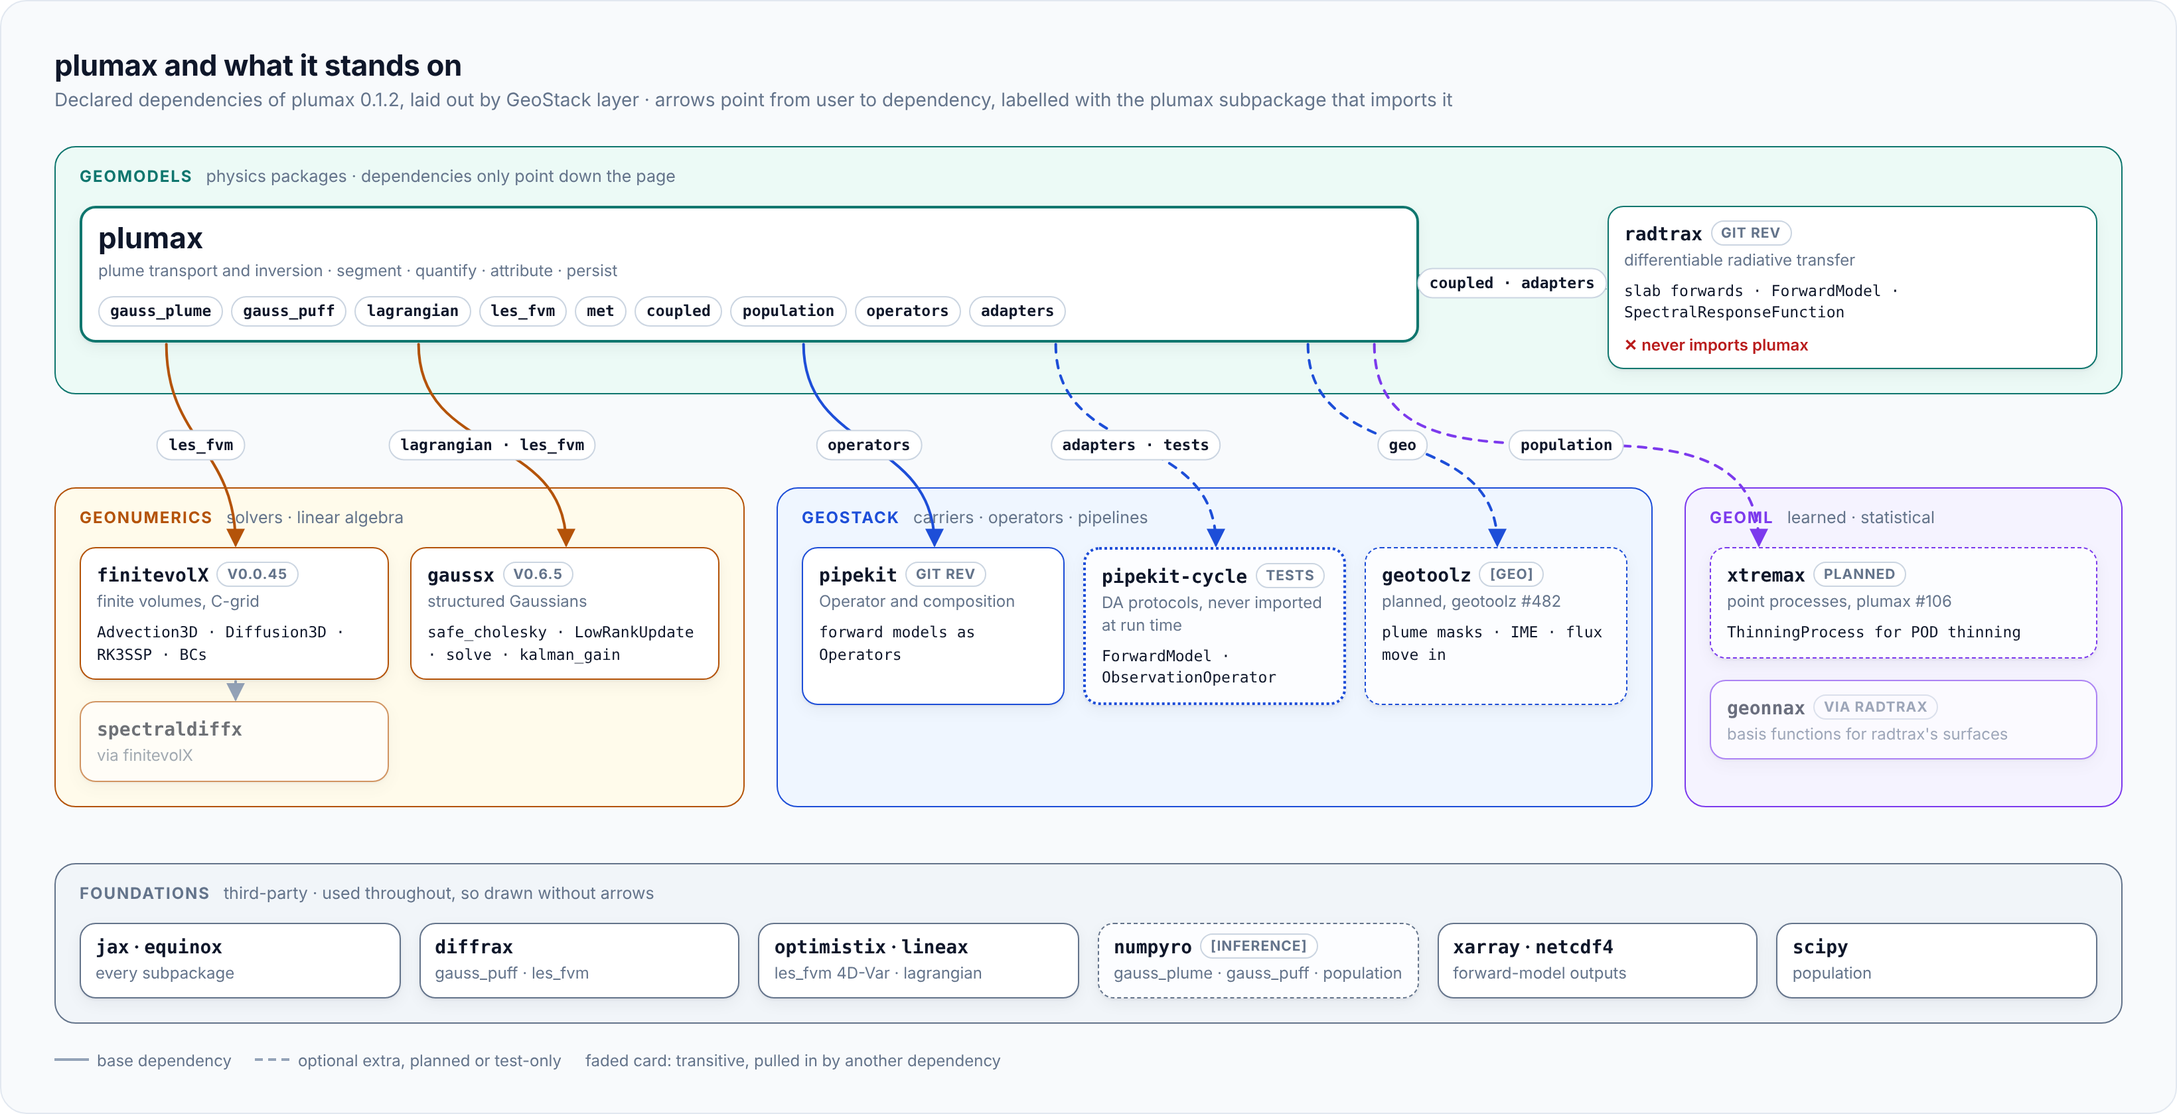
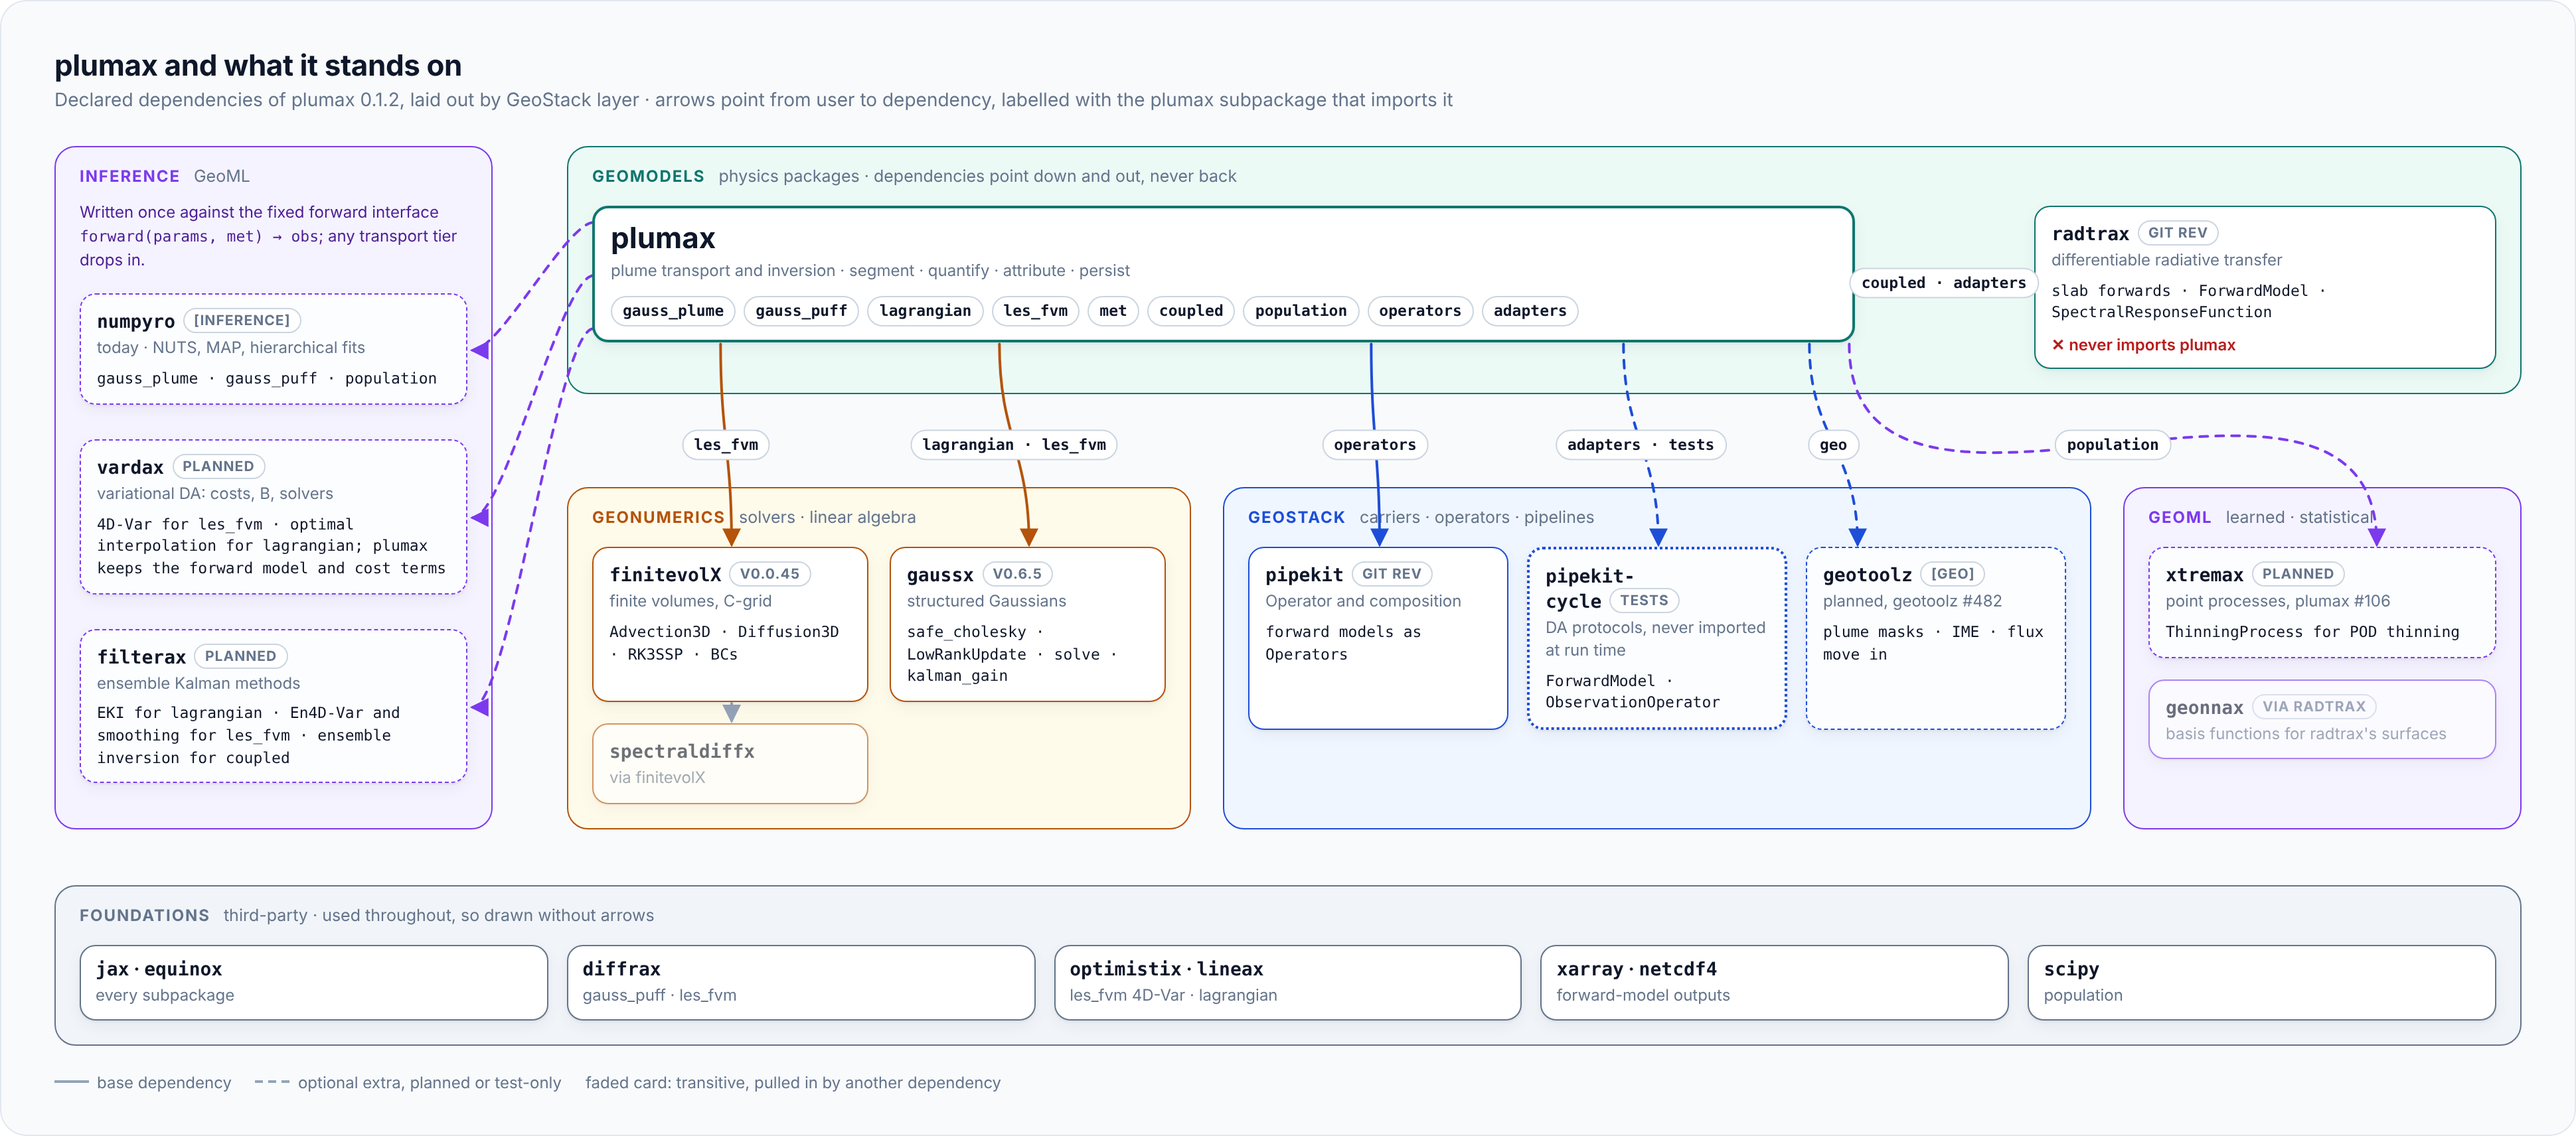
docs: add an inference layer to the dependency diagram
Group numpyro (today) with vardax and filterax (planned) in an
Inference column, matching the roadmap's written-once inference over
the fixed forward interface.

Claude-Session: https://claude.ai/code/session_01SfgMxaVEzvWWzGvXNKqaXK

diff --git a/docs/assets/diagrams/plumax-deps.html b/docs/assets/diagrams/plumax-deps.html
@@ -5,7 +5,7 @@
 <title>plumax and its dependencies</title>
 <link rel="stylesheet" href="_base.css">
 <style>
-  #diagram { width: 1640px; }
+  #diagram { width: 1940px; }
   /* GeoStack's layers, coloured as in geostack docs/images/overview/dependency_graph.svg */
   .models   { --accent: #0f766e; --tint: #ecfaf6; --ink-accent: #134e4a; }
   .ml       { --accent: #7c3aed; --tint: #f5f3ff; --ink-accent: #4c1d95; }
@@ -13,9 +13,8 @@
   .geo      { --accent: #1d4ed8; --tint: #eff6ff; --ink-accent: #1e3a8a; }
   .found    { --accent: #64748b; --tint: #f1f5f9; --ink-accent: #1e293b; }
 
-  .layers { display: flex; flex-direction: column; gap: 70px; }
-  #foundations { margin-top: -28px; }
-  .layer { position: relative; border-radius: 16px; border: 1.5px solid var(--accent); background: var(--tint); padding: 14px 18px 18px; }
+  .layers { display: flex; flex-direction: column; gap: 42px; }
+    .layer { position: relative; border-radius: 16px; border: 1.5px solid var(--accent); background: var(--tint); padding: 14px 18px 18px; }
   .layer-head { display: flex; align-items: baseline; gap: 10px; margin-bottom: 14px; }
   .layer-head .verb { font-size: 12px; font-weight: 700; letter-spacing: .08em; text-transform: uppercase; color: var(--accent); }
   .layer-head .what { font-size: 12.5px; color: var(--muted); }
@@ -24,7 +23,13 @@
   .grid { display: grid; grid-template-columns: repeat(12, 1fr); column-gap: 14px; align-items: start; }
   .s1 { grid-column: 1 / 4; } .s2 { grid-column: 5 / 9; } .s3 { grid-column: 9 / 13; }
   .h1 { grid-column: 1 / 7; } .h2 { grid-column: 7 / 13; }
-  .row2 { display: grid; grid-template-columns: 520px 1fr 330px; gap: 24px; }
+  .row2 { display: grid; grid-template-columns: 470px 1fr 300px; gap: 24px; }
+  .frame { display: grid; grid-template-columns: 330px 1fr; column-gap: 56px; row-gap: 70px; }
+  #inference { grid-column: 1; grid-row: 1 / 3; }
+  .frame > .models, .frame > .row2 { grid-column: 2; }
+  .inf-stack { display: flex; flex-direction: column; gap: 26px; }
+  .inf-note { font-size: 12px; line-height: 1.5; color: var(--ink-accent); margin: -4px 0 16px; }
+  .inf-note code { font-family: var(--mono); font-size: 11.5px; }
   .col2 { display: grid; grid-template-columns: 1fr 1fr; gap: 16px; }
   .col3 { display: grid; grid-template-columns: repeat(3, 1fr); gap: 14px; }
   .col1 { display: grid; grid-template-columns: 1fr; gap: 16px; }
@@ -45,7 +50,7 @@
   .subs { display: flex; flex-wrap: wrap; gap: 6px; margin-top: 10px; }
   .rule { margin-top: 8px; font-size: 12px; color: #b91c1c; font-weight: 600; }
 
-  .found-row { display: grid; grid-template-columns: repeat(6, 1fr); gap: 14px; }
+  .found-row { display: grid; grid-template-columns: repeat(5, 1fr); gap: 14px; }
   .found-row .node { padding: 9px 11px; }
   .found-row .node .name { font-size: 14px; }
 </style>
@@ -56,8 +61,30 @@
   <div class="subtitle">Declared dependencies of plumax 0.1.2, laid out by GeoStack layer · arrows point from user to dependency, labelled with the plumax subpackage that imports it</div>
 
   <div class="layers">
+    <div class="frame">
+      <div class="layer ml" id="inference">
+        <div class="layer-head"><span class="verb">Inference</span><span class="what">GeoML</span></div>
+        <div class="inf-note">Written once against the fixed forward interface <code>forward(params, met) → obs</code>; any transport tier drops in.</div>
+        <div class="inf-stack">
+          <div class="node extra" id="numpyro">
+            <div class="name"><code>numpyro</code><span class="pin">[inference]</span></div>
+            <div class="desc">today · NUTS, MAP, hierarchical fits</div>
+            <div class="use">gauss_plume · gauss_puff · population</div>
+          </div>
+          <div class="node extra" id="vardax">
+            <div class="name"><code>vardax</code><span class="pin">planned</span></div>
+            <div class="desc">variational DA: costs, B, solvers</div>
+            <div class="use">4D-Var for les_fvm · optimal interpolation for lagrangian; plumax keeps the forward model and cost terms</div>
+          </div>
+          <div class="node extra" id="filterax">
+            <div class="name"><code>filterax</code><span class="pin">planned</span></div>
+            <div class="desc">ensemble Kalman methods</div>
+            <div class="use">EKI for lagrangian · En4D-Var and smoothing for les_fvm · ensemble inversion for coupled</div>
+          </div>
+        </div>
+      </div>
     <div class="layer models">
-      <div class="layer-head"><span class="verb">GeoModels</span><span class="what">physics packages · dependencies only point down the page</span></div>
+      <div class="layer-head"><span class="verb">GeoModels</span><span class="what">physics packages · dependencies point down and out, never back</span></div>
       <div class="grid">
         <div class="node" id="plumax" style="grid-column: 1 / 9">
           <div class="name">plumax</div>
@@ -138,6 +165,7 @@
         </div>
       </div>
     </div>
+    </div>
 
     <div class="layer found" id="foundations">
       <div class="layer-head"><span class="verb">Foundations</span><span class="what">third-party · used throughout, so drawn without arrows</span></div>
@@ -145,7 +173,6 @@
         <div class="node"><div class="name"><code>jax</code> · <code>equinox</code></div><div class="desc">every subpackage</div></div>
         <div class="node"><div class="name"><code>diffrax</code></div><div class="desc">gauss_puff · les_fvm</div></div>
         <div class="node"><div class="name"><code>optimistix</code> · <code>lineax</code></div><div class="desc">les_fvm 4D-Var · lagrangian</div></div>
-        <div class="node extra"><div class="name"><code>numpyro</code><span class="pin">[inference]</span></div><div class="desc">gauss_plume · gauss_puff · population</div></div>
         <div class="node"><div class="name"><code>xarray</code> · <code>netcdf4</code></div><div class="desc">forward-model outputs</div></div>
         <div class="node"><div class="name"><code>scipy</code></div><div class="desc">population</div></div>
       </div>
@@ -163,12 +190,15 @@
   const T = "#0f766e", N = "#b45309", G = "#1d4ed8", M = "#7c3aed", X = "#94a3b8";
   const lbl = (t) => "<span class='t'>" + t + "</span>";
   wire("plumax", "radtrax", { from: "right", to: "left", color: T, label: lbl("coupled · adapters") });
-  wire("plumax", "finitevolx", { from: "bottom", to: "top", color: N, fromShift: -440, label: lbl("les_fvm"), at: 0.5 });
-  wire("plumax", "gaussx", { from: "bottom", to: "top", color: N, fromShift: -250, label: lbl("lagrangian · les_fvm"), at: 0.5 });
-  wire("plumax", "pipekit", { from: "bottom", to: "top", color: G, fromShift: 40, label: lbl("operators"), at: 0.5 });
-  wire("plumax", "cycle", { from: "bottom", to: "top", color: G, dashed: true, fromShift: 230, label: lbl("adapters · tests"), at: 0.5 });
-  wire("plumax", "geotoolz", { from: "bottom", to: "top", color: G, dashed: true, fromShift: 420, label: lbl("geo"), at: 0.5 });
-  wire("plumax", "xtremax", { from: "bottom", to: "top", color: M, dashed: true, fromShift: 470, toShift: -110, label: lbl("population"), at: 0.5 });
+  wire("plumax", "numpyro", { from: "left", to: "right", color: M, dashed: true, fromShift: -40, bend: 20 });
+  wire("plumax", "vardax", { from: "left", to: "right", color: M, dashed: true, fromShift: 0, bend: 24 });
+  wire("plumax", "filterax", { from: "left", to: "right", color: M, dashed: true, fromShift: 40, bend: 28 });
+  wire("plumax", "finitevolx", { from: "bottom", to: "top", color: N, fromShift: -380, label: lbl("les_fvm"), at: 0.5 });
+  wire("plumax", "gaussx", { from: "bottom", to: "top", color: N, fromShift: -170, label: lbl("lagrangian · les_fvm"), at: 0.5 });
+  wire("plumax", "pipekit", { from: "bottom", to: "top", color: G, fromShift: 110, label: lbl("operators"), at: 0.5 });
+  wire("plumax", "cycle", { from: "bottom", to: "top", color: G, dashed: true, fromShift: 300, label: lbl("adapters · tests"), at: 0.5 });
+  wire("plumax", "geotoolz", { from: "bottom", to: "top", color: G, dashed: true, fromShift: 440, toShift: -60, label: lbl("geo"), at: 0.5 });
+  wire("plumax", "xtremax", { from: "bottom", to: "top", color: M, dashed: true, fromShift: 470, toShift: 40, label: lbl("population"), at: 0.5 });
   wire("finitevolx", "spectraldiffx", { from: "bottom", to: "top", color: X });
   ready();
 </script>

diff --git a/README.md b/README.md
@@ -79,9 +79,13 @@ GeoStack's
 plumax sits in GeoStack's GeoModels layer beside radtrax. It reaches down to
 two GeoNumerics packages for its solvers (finitevolX for the Eulerian grid,
 gaussx for every posterior covariance) and to pipekit for the `Operator`
-interface; nothing below imports it back.
+interface; nothing below imports it back. Inference sits to one side: every
+tier exposes the same `forward(params, met) → observations`, so the
+samplers and assimilation schemes are written once against it. NumPyro
+does that today; vardax (variational DA) and filterax (ensemble Kalman
+methods) are the planned homes for 4D-Var, optimal interpolation and EKI.
 
-<p align="center"><img src="docs/assets/diagrams/plumax-deps.png" alt="plumax and its dependencies by GeoStack layer: in GeoModels, plumax depends on radtrax through coupled and adapters, and radtrax never imports plumax; in GeoNumerics, les_fvm uses finitevolX (with spectraldiffx underneath) and lagrangian and les_fvm use gaussx; in GeoStack, operators use pipekit, adapters satisfy pipekit-cycle in tests only, and geotoolz is a planned geo extra; in GeoML, xtremax is planned for population and geonnax arrives through radtrax; jax, equinox, diffrax, optimistix, lineax, numpyro, xarray and scipy are the third-party foundations" width="100%"></p>
+<p align="center"><img src="docs/assets/diagrams/plumax-deps.png" alt="plumax and its dependencies by GeoStack layer: an Inference column with numpyro (today, behind the inference extra), vardax and filterax (planned); in GeoModels, plumax depends on radtrax through coupled and adapters, and radtrax never imports plumax; in GeoNumerics, les_fvm uses finitevolX (with spectraldiffx underneath) and lagrangian and les_fvm use gaussx; in GeoStack, operators use pipekit, adapters satisfy pipekit-cycle in tests only, and geotoolz is a planned geo extra; in GeoML, xtremax is planned for population and geonnax arrives through radtrax; jax, equinox, diffrax, optimistix, lineax, xarray, netcdf4 and scipy are the third-party foundations" width="100%"></p>
 
 The full stack's graph, and the rules that keep it acyclic, live in GeoStack's
 [package boundaries](https://github.com/jejjohnson/geostack/blob/main/docs/geomodels/package_boundaries.md)
